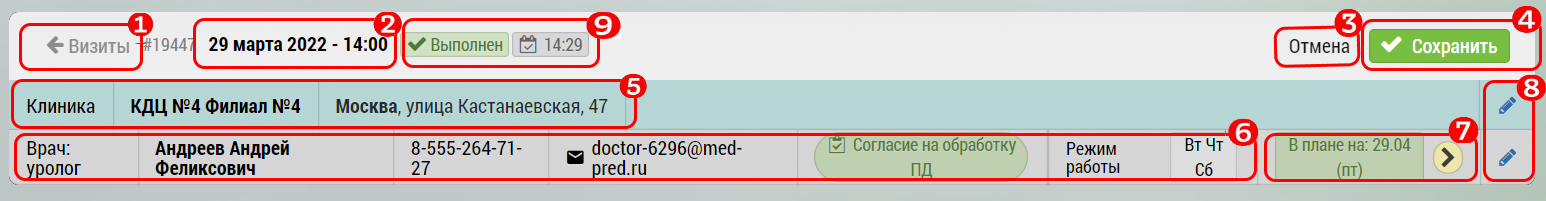
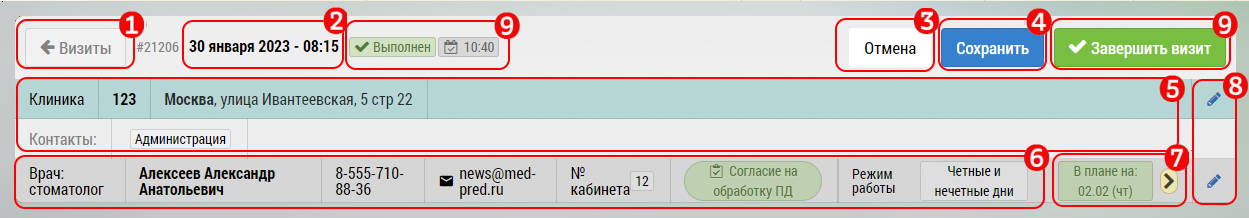
[upd] Изменение изображений в разделах Выполнение визита и Карта

diff --git a/src/guide/rep-visits.md b/src/guide/rep-visits.md
@@ -29,6 +29,7 @@
   4. Блок учета раздачи промо-материалов
   5. Блок с [целями визита](rep-visits-target.html)
   6. История визитов 
+  7. Кнопки Отмены, Сохранения и Завершения визита
 
 
 Блок общей информации о визите:
@@ -38,17 +39,21 @@
   1. Кнопка перехода к визитам в подробном плане
   2. Дата и время визита
   3. Кнопка отмены - закрыть окно заполнения визита - **это не отмена визита**
-  4. Кнопка сохранения визита.
-  Если минимально необходимый набор полей заполнен, то визит получает отметку ![](../images/icon-visit-closed.png#inline)
+  4. Кнопка сохранения визита. **Кнопка не "закрывает" визит, только сохраняет внесенные данные.**
   5. Информация об объекте визита
   6. Информация о субъекте визита (в зависимости от заполненности данных, поле может отличаться)
   7. Кнопка для добавления в план - для повторного визита прямо из итогов текущего, тут же отображается дата следующего или предыдущего визита
   8. Кнопки перехода к редактированию объекта/субъекта
-  9. Статус текущего визита и время закрытия визита
-  
-  
-> Кнопка сохранения визита, закрывает визит, после нажатия на нее данные визита будут записаны
+  9. Кнопка "Завершить визит", которая закрывает визит и присваивает статус текущего визита и время закрытия визита
 
-> Время закрытия визита, при повторном сохранении, **нельзя изменить**
+ **Если минимально необходимый набор полей заполнен, то визит получает отметку** 
+ ![](../images/icon-visit-closed.png#inline) 
+  
+  
+> Кнопка сохранения визита, только сохраняет визит, после нажатия на нее данные визита будут сохранены, сам визит не будет "закрыт", т.е. в отчет о Выполненных визитах он не попадет.
+
+> Кнопка "Завершить визит" Сохраняет все внесенные данные и завершает визит
+
+> Время закрытия визита, при повторном сохранении или закрытии, **нельзя изменить**
 
 > Некоторые типы визита имеют минимальные данные нужные для закрытия

diff --git a/src/guide/map.md b/src/guide/map.md
@@ -34,3 +34,5 @@
 - Кнопка фильтрации объектов по типу `4` (в примере клиники/аптеки/УЗД/Торговая точка)
 - Кнопка масштабирования `5`. Изменяет масштаб таким образом чтобы все объекты уместились на одном экране
 - Кнопки изменения масштаба `6`
+- Фильтр выбора объектов по меткам `7`
+- Легенда `8`
